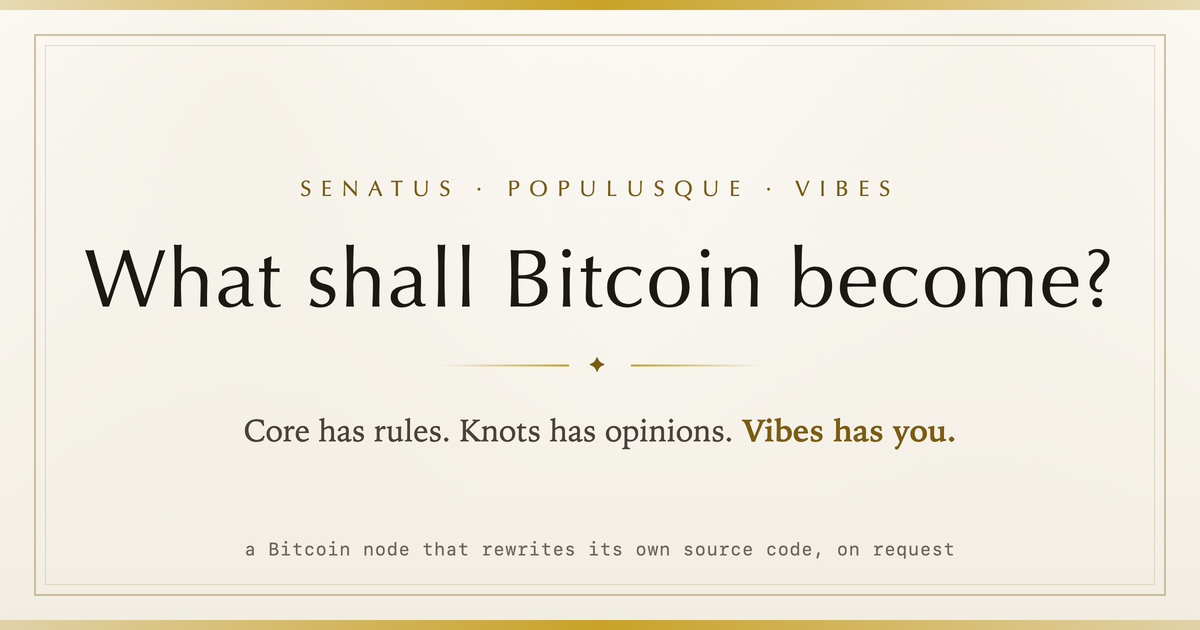
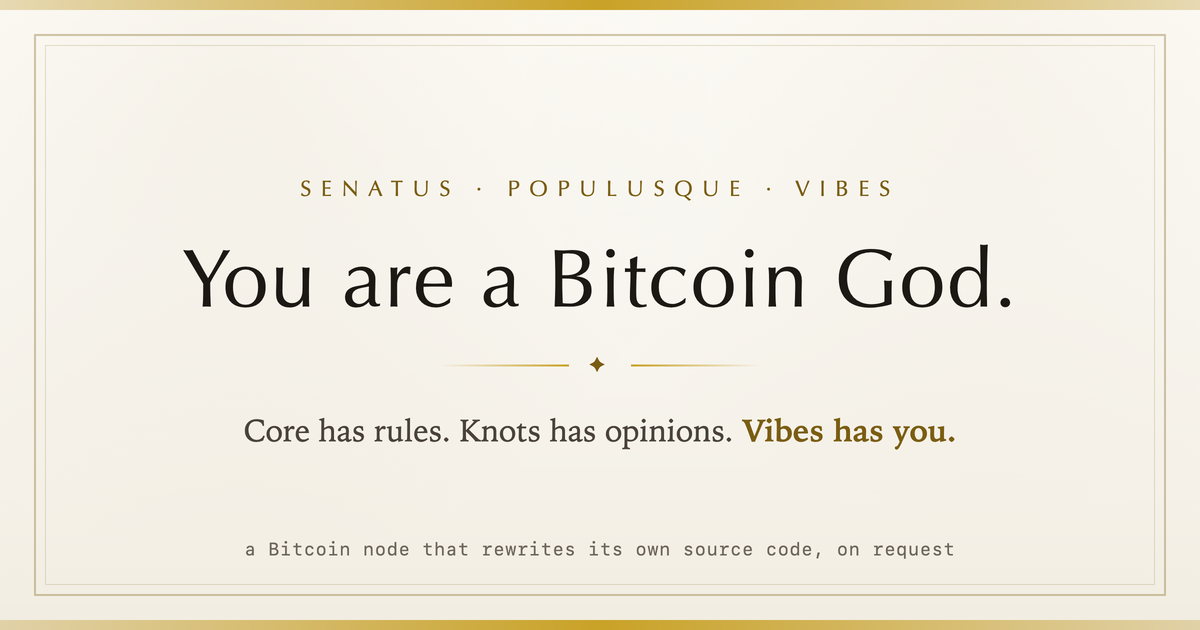
Headline: You are a Bitcoin God.
Replaces 'What shall Bitcoin become?' everywhere it appeared on the
site -- the h1, the page title, og:title, twitter:title and the social
card's alt text -- and the social image is redrawn to match.

A declaration rather than a question, which the creed beneath now reads
as justification for rather than an answer to.

Changed region(s): [[0.0617, 0.3921, 0.925, 0.5127]]

diff --git a/index.html b/index.html
@@ -3,7 +3,7 @@
 <head>
 <meta charset="utf-8">
 <meta name="viewport" content="width=device-width, initial-scale=1">
-<title>Bitcoin Vibes — what shall Bitcoin become?</title>
+<title>Bitcoin Vibes — You are a Bitcoin God.</title>
 <meta name="description" content="Core has rules. Knots has opinions. Vibes has you. A real Bitcoin node with a big text area: tell it what Bitcoin should have been, and it will be that.">
 <meta name="theme-color" content="#faf8f3">
 
@@ -15,7 +15,7 @@
 <link rel="shortcut icon" href="favicon.ico">
 
 <meta property="og:site_name" content="Bitcoin Vibes">
-<meta property="og:title" content="Bitcoin Vibes — what shall Bitcoin become?">
+<meta property="og:title" content="Bitcoin Vibes — You are a Bitcoin God.">
 <meta property="og:description" content="Core has rules. Knots has opinions. Vibes has you. Tell it what Bitcoin should have been, and it will be that.">
 <meta property="og:type" content="website">
 <meta property="og:url" content="https://hotpixelgroup.github.io/bitcoin/">
@@ -23,9 +23,9 @@
 <meta property="og:image:type" content="image/png">
 <meta property="og:image:width" content="1200">
 <meta property="og:image:height" content="630">
-<meta property="og:image:alt" content="Bitcoin Vibes — What shall Bitcoin become? Core has rules. Knots has opinions. Vibes has you.">
+<meta property="og:image:alt" content="Bitcoin Vibes — You are a Bitcoin God. Core has rules. Knots has opinions. Vibes has you.">
 <meta name="twitter:card" content="summary_large_image">
-<meta name="twitter:title" content="Bitcoin Vibes — what shall Bitcoin become?">
+<meta name="twitter:title" content="Bitcoin Vibes — You are a Bitcoin God.">
 <meta name="twitter:description" content="Core has rules. Knots has opinions. Vibes has you.">
 <meta name="twitter:image" content="https://hotpixelgroup.github.io/bitcoin/og.png">
 <style>
@@ -225,7 +225,7 @@
 
 <header class="hero">
   <div class="entablature"><p>Senatus · Populusque · Vibes</p></div>
-  <h1>What shall Bitcoin become?</h1>
+  <h1>You are a Bitcoin God.</h1>
   <p class="creed">Core needs rough consensus. Knots needs one man's blessing.
      <b>You need a sentence.</b></p>
   <p class="kicker">A real Bitcoin node with a big text area. Tell it what Bitcoin
